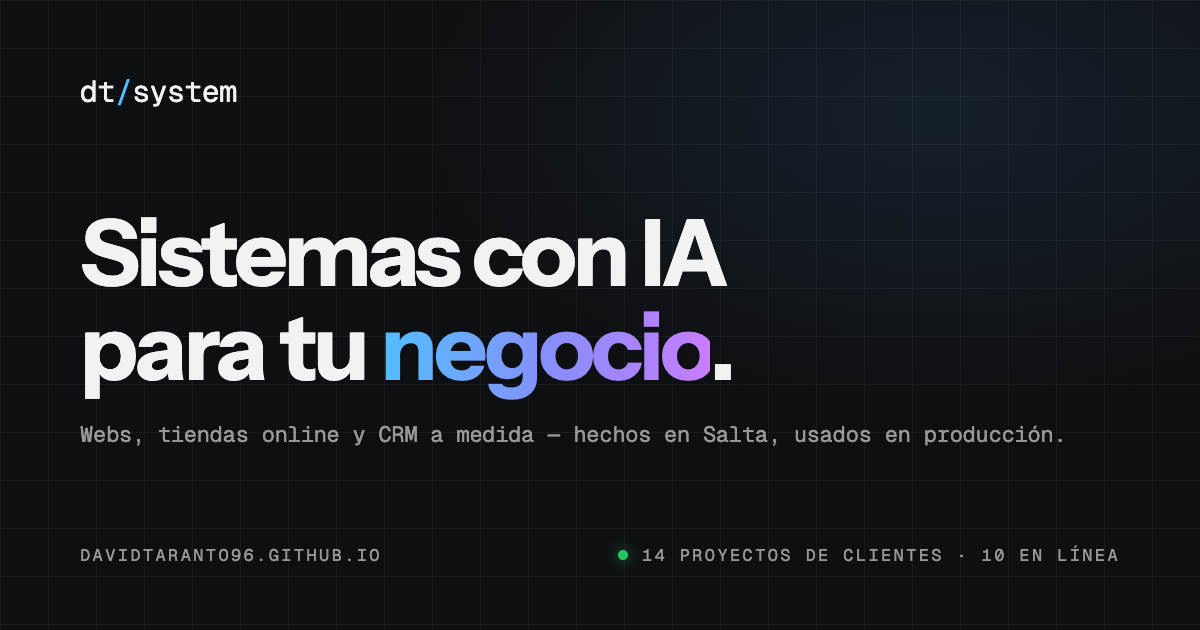
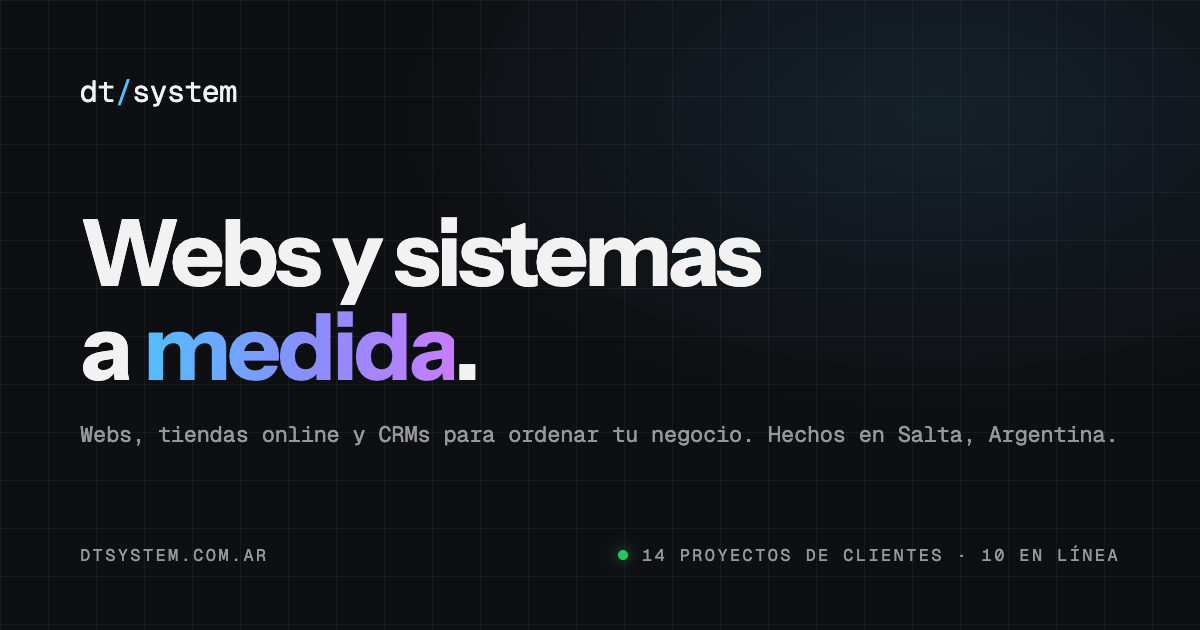
fix(web): portada de WhatsApp con «Webs y sistemas a medida»

diff --git a/index.html b/index.html
@@ -10,7 +10,7 @@
   <title>David Taranto — Webs y sistemas a medida | DT System, Salta</title>
   <meta name="description" content="Webs, tiendas online y sistemas de gestión a medida para empresas y emprendimientos. Me encargo del proyecto completo, del primer boceto al soporte. Hecho en Salta, Argentina.">
   <meta property="og:type" content="website">
-  <meta property="og:title" content="David Taranto — Webs y sistemas a medida para tu negocio">
+  <meta property="og:title" content="David Taranto · Webs y sistemas a medida">
   <meta property="og:description" content="Webs, tiendas online y sistemas de gestión a medida. Hechos en Salta, Argentina, y en uso diario por quienes los encargaron.">
   <meta property="og:url" content="https://dtsystem.com.ar/">
   <meta property="og:site_name" content="DT System">
@@ -18,13 +18,13 @@
   <meta property="og:locale:alternate" content="en_US">
   <!-- La URL de la imagen social DEBE ser absoluta: los scrapers de
        LinkedIn/WhatsApp no resuelven rutas relativas. -->
-  <meta property="og:image" content="https://dtsystem.com.ar/assets/og.png">
+  <meta property="og:image" content="https://dtsystem.com.ar/assets/og.png?v=20261023p">
   <meta property="og:image:width" content="1200">
   <meta property="og:image:height" content="630">
   <meta property="og:image:alt" content="DT System: webs, tiendas y sistemas a medida hechos por David Taranto en Salta">
   <link rel="canonical" href="https://dtsystem.com.ar/">
   <meta name="twitter:card" content="summary_large_image">
-  <meta name="twitter:image" content="https://dtsystem.com.ar/assets/og.png">
+  <meta name="twitter:image" content="https://dtsystem.com.ar/assets/og.png?v=20261023p">
   <!-- Favicon: marca "dt/" en SVG inline (sin archivo extra) -->
   <!-- ?v=2 fuerza a los navegadores a descartar el favicon viejo cacheado -->
   <link rel="icon" href="assets/brand/favicon-64.png?v=2" type="image/png" sizes="64x64">
@@ -38,7 +38,7 @@
   <link rel="preload" as="style" href="https://fonts.googleapis.com/css2?family=Instrument+Sans:wght@400;500;700&family=Geist+Mono:wght@400;700&display=swap">
   <link rel="stylesheet" href="https://fonts.googleapis.com/css2?family=Instrument+Sans:wght@400;500;700&family=Geist+Mono:wght@400;700&display=swap">
 
-  <link rel="stylesheet" href="styles.css?v=20261023o">
+  <link rel="stylesheet" href="styles.css?v=20261023p">
 
   <!-- Tema inicial ANTES del primer paint (evita flash):
        localStorage manda; si no hay, respeta prefers-color-scheme. -->
@@ -790,6 +790,6 @@
 
   <script src="assets/land-data.js" defer></script>
   <script src="objetos.js" defer></script>
-  <script src="main.js?v=20261023o" defer></script>
+  <script src="main.js?v=20261023p" defer></script>
 </body>
 </html>
